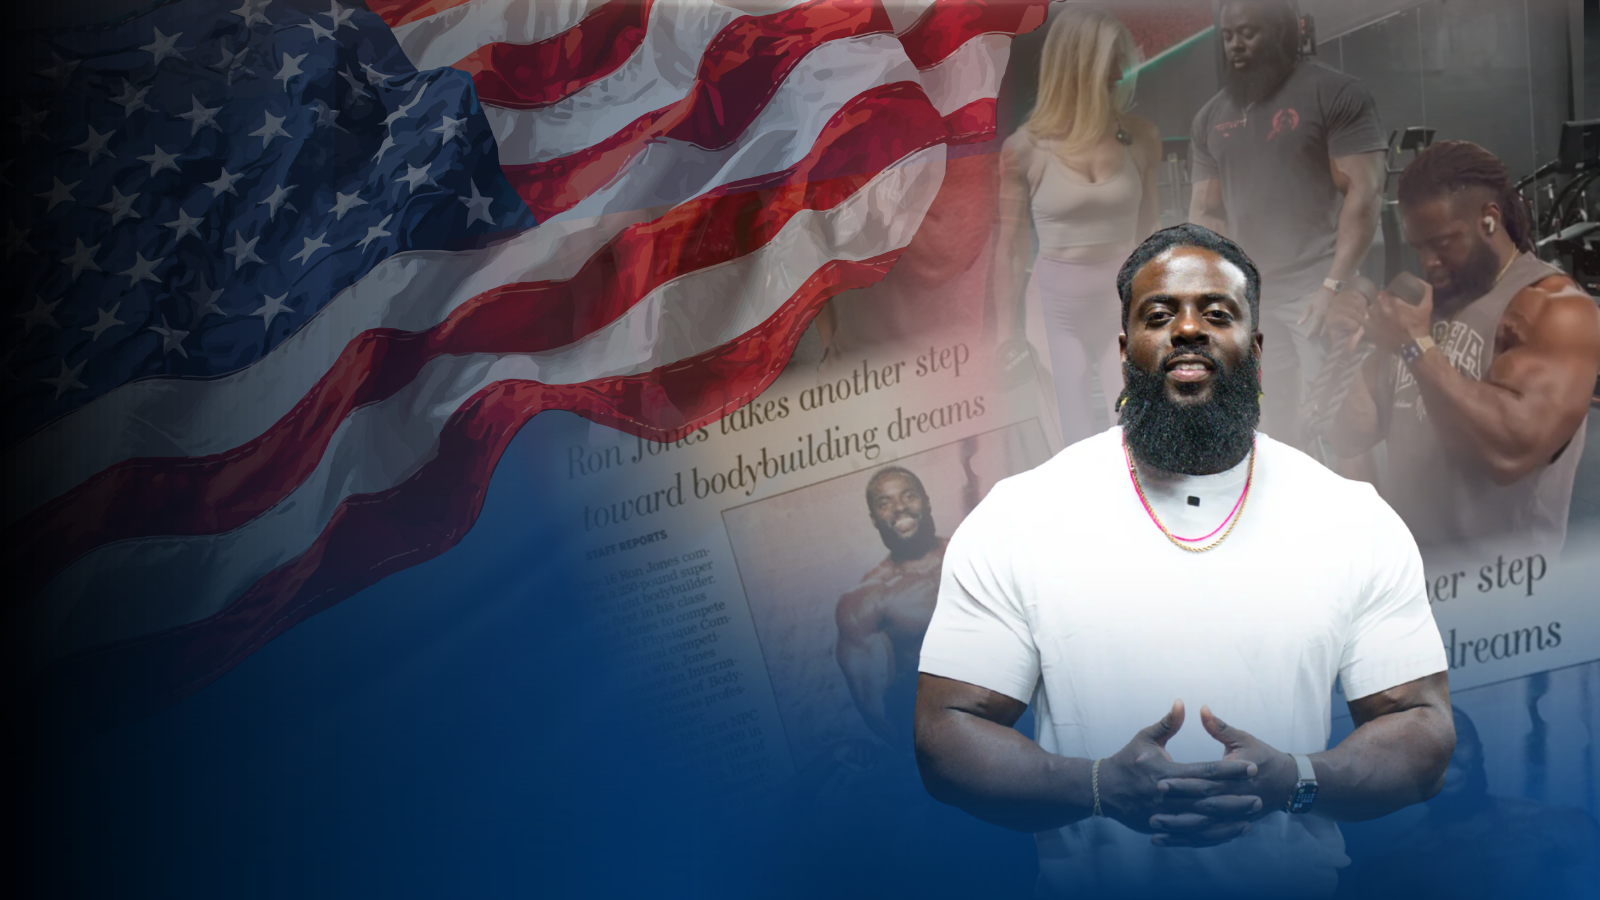
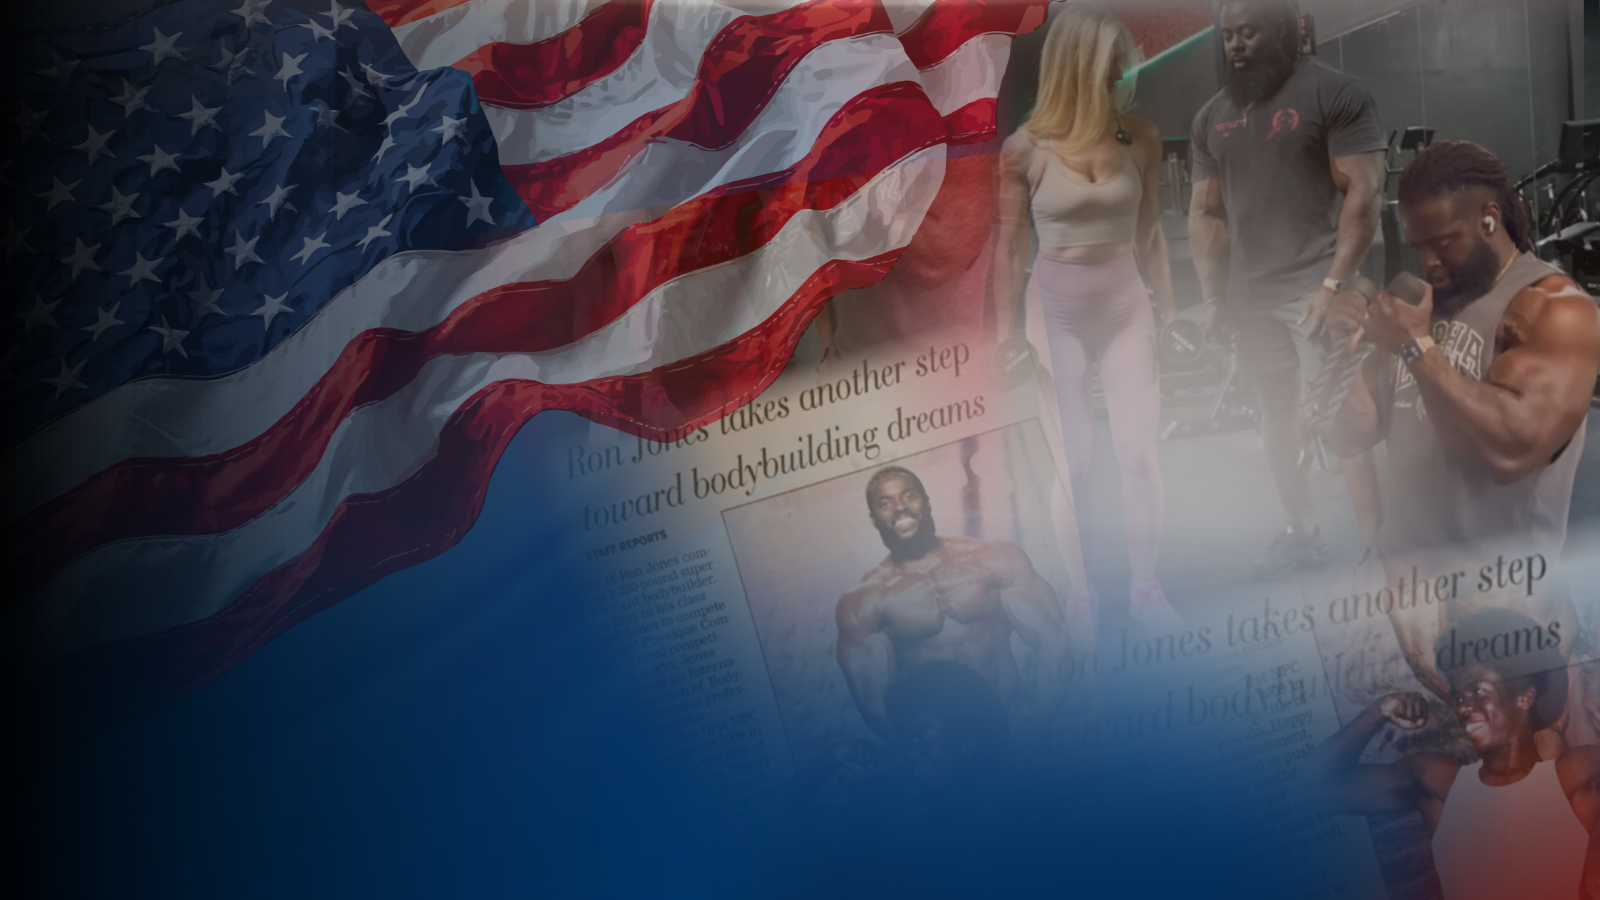
feat(hero): integrate new 1600x900 hero image with responsive desktop backdrop, mobile/iPhone showcase card, and WebP optimization

Changed region(s): [[0.5625, 0.1244, 1.0, 1.0]]

diff --git a/src/pages/Home.tsx b/src/pages/Home.tsx
@@ -41,28 +41,32 @@ export default function Home() {
           aria-hidden="true"
         />
 
-        {/* Desktop Widescreen Hero Image with Big Ron Jones & American Flag (>= 1024px) */}
-        <div className="hidden lg:block absolute inset-0 h-full w-full pointer-events-none select-none overflow-hidden z-10 opacity-70 mix-blend-screen">
-          <img
-            src="/brand/hero-desktop.png"
-            alt="BigRonJones®"
-            className="h-full w-full object-cover object-[80%_center] xl:object-[78%_center] select-none"
-            style={{ imageRendering: "-webkit-optimize-contrast" }}
-            fetchPriority="high"
-          />
+        {/* Desktop Widescreen Hero Image with Big Ron Jones, American Flag & Gym Action (>= 1024px) */}
+        <div className="hidden lg:block absolute inset-0 h-full w-full pointer-events-none select-none overflow-hidden z-10">
+          <picture>
+            <source type="image/webp" srcSet="/brand/hero.webp" />
+            <img
+              src="/brand/hero.png"
+              alt="Back to Basics with BigRonJones®"
+              className="h-full w-full object-cover object-[82%_center] xl:object-[80%_center] select-none opacity-90"
+              style={{ imageRendering: "-webkit-optimize-contrast" }}
+              fetchPriority="high"
+              decoding="async"
+            />
+          </picture>
           {/* Feathered scrim over left text column to ensure 100% crisp text readability */}
           <div
             className="absolute inset-y-0 left-0 w-full lg:w-[62%] xl:w-[56%] pointer-events-none"
             style={{
               background:
-                "linear-gradient(to right, #070A10 0%, #070A10 35%, rgba(7, 10, 16, 0.94) 52%, rgba(7, 10, 16, 0.72) 72%, rgba(7, 10, 16, 0.25) 90%, transparent 100%)",
+                "linear-gradient(to right, #070A10 0%, #070A10 32%, rgba(7, 10, 16, 0.95) 48%, rgba(7, 10, 16, 0.7) 68%, rgba(7, 10, 16, 0.2) 88%, transparent 100%)",
             }}
           />
           {/* Soft bottom vignette to melt into next section */}
           <div
             className="absolute bottom-0 inset-x-0 h-28 pointer-events-none"
             style={{
-              background: "linear-gradient(to top, #070A10 0%, rgba(7, 10, 16, 0.75) 40%, transparent 100%)",
+              background: "linear-gradient(to top, #070A10 0%, rgba(7, 10, 16, 0.8) 45%, transparent 100%)",
             }}
           />
           {/* Subtle top blend for navbar clearance */}
@@ -74,18 +78,22 @@ export default function Home() {
           />
         </div>
 
-        {/* Mobile & Tablet Hero Visual Layer (< 1024px) */}
-        <div className="block lg:hidden absolute inset-0 h-full w-full pointer-events-none select-none overflow-hidden z-10 opacity-25">
-          <img
-            src="/brand/hero-mobile.png"
-            alt="BigRonJones®"
-            className="h-full w-full object-cover object-top select-none"
-          />
-          <div className="absolute inset-0 bg-gradient-to-b from-[#070A10]/80 via-[#070A10]/95 to-[#070A10]" />
+        {/* Mobile & Tablet Hero Visual Background Atmosphere (< 1024px) */}
+        <div className="block lg:hidden absolute inset-0 h-full w-full pointer-events-none select-none overflow-hidden z-10 opacity-30">
+          <picture>
+            <source type="image/webp" srcSet="/brand/hero.webp" />
+            <img
+              src="/brand/hero.png"
+              alt="BigRonJones®"
+              className="h-full w-full object-cover object-[75%_center] select-none"
+              loading="eager"
+            />
+          </picture>
+          <div className="absolute inset-0 bg-gradient-to-b from-[#070A10]/75 via-[#070A10]/90 to-[#070A10]" />
         </div>
 
         <div className="relative z-20 mx-auto max-w-7xl px-4 sm:px-6 lg:px-8">
-          <div className="max-w-3xl lg:max-w-2xl text-center lg:text-left">
+          <div className="max-w-3xl lg:max-w-xl xl:max-w-2xl text-center lg:text-left">
             {/* Eyebrow badge with signature crimson accent */}
             <div className="inline-flex items-center gap-2 mb-6">
               <span className="inline-block w-8 h-[2px] bg-[#B31942]" />
@@ -95,7 +103,7 @@ export default function Home() {
             </div>
 
             {/* Wordmark / H1 */}
-            <h1 className="font-heading text-5xl sm:text-6xl md:text-7xl lg:text-8xl tracking-tight text-white uppercase leading-[0.92]">
+            <h1 className="font-heading text-4xl xs:text-5xl sm:text-6xl md:text-7xl lg:text-8xl tracking-tight text-white uppercase leading-[0.94]">
               Back to Basics <br />
               <span className="text-[#38bdf8] drop-shadow-sm">
                 with <BrandName variant="upper" />
@@ -113,11 +121,11 @@ export default function Home() {
             </p>
 
             {/* Action Buttons */}
-            <div className="mt-8 flex flex-col sm:flex-row items-center justify-center lg:justify-start gap-4">
+            <div className="mt-8 flex flex-col sm:flex-row items-center justify-center lg:justify-start gap-3.5">
               <Link
                 to="/chest-day/"
                 onClick={() => trackWatchEpisodeClick(1, "Episode 1: Chest Day")}
-                className="w-full sm:w-auto inline-flex items-center justify-center gap-2.5 rounded-lg bg-[#B31942] px-8 py-4 text-base sm:text-lg font-bold text-white shadow-xl shadow-red-900/35 transition-all hover:bg-[#8e1032] hover:shadow-2xl active:scale-[0.99] focus-visible:ring-2 focus-visible:ring-offset-2 focus-visible:ring-[#B31942]"
+                className="w-full sm:w-auto min-h-[48px] inline-flex items-center justify-center gap-2.5 rounded-lg bg-[#B31942] px-8 py-3.5 text-base sm:text-lg font-bold text-white shadow-xl shadow-red-900/35 transition-all hover:bg-[#8e1032] hover:shadow-2xl active:scale-[0.99] focus-visible:ring-2 focus-visible:ring-offset-2 focus-visible:ring-[#B31942]"
               >
                 <Play className="h-5 w-5 fill-current text-white" aria-hidden="true" />
                 <span>Watch Episode 1</span>
@@ -128,7 +136,7 @@ export default function Home() {
                 href="https://bigronjones.com/assessment"
                 target="_blank"
                 rel="noopener noreferrer"
-                className="w-full sm:w-auto inline-flex items-center justify-center gap-2 rounded-lg border border-slate-700 bg-white/10 backdrop-blur-md px-7 py-3.5 text-base font-bold text-white transition-all hover:bg-white/15 hover:border-slate-500"
+                className="w-full sm:w-auto min-h-[48px] inline-flex items-center justify-center gap-2 rounded-lg border border-slate-700 bg-white/10 backdrop-blur-md px-6 py-3.5 text-base font-bold text-white transition-all hover:bg-white/15 hover:border-slate-500"
               >
                 <span className="h-2 w-2 rounded-full bg-[#B31942] animate-pulse" />
                 <span>Take Free Assessment →</span>
@@ -136,14 +144,14 @@ export default function Home() {
 
               <a
                 href="#join"
-                className="w-full sm:w-auto inline-flex items-center justify-center rounded-lg border border-slate-700 bg-slate-900/70 px-6 py-3.5 text-sm font-bold text-slate-300 hover:text-white hover:border-slate-500 transition-colors"
+                className="w-full sm:w-auto min-h-[48px] inline-flex items-center justify-center rounded-lg border border-slate-700 bg-slate-900/70 px-6 py-3.5 text-sm font-bold text-slate-300 hover:text-white hover:border-slate-500 transition-colors"
               >
                 Join the Email List
               </a>
             </div>
 
             {/* Trust Subtext */}
-            <div className="mt-8 flex flex-wrap items-center justify-center lg:justify-start gap-3 text-xs font-mono font-medium text-slate-400">
+            <div className="mt-7 flex flex-wrap items-center justify-center lg:justify-start gap-3 text-xs font-mono font-medium text-slate-400">
               <span className="inline-flex items-center gap-1.5 text-slate-300">
                 <ShieldCheck className="h-4 w-4 text-[#38bdf8]" />
                 20+ Years Coaching
@@ -152,6 +160,44 @@ export default function Home() {
               <span>4 Free Complete Sessions</span>
               <span>•</span>
               <span>No Subscription Required</span>
+            </div>
+
+            {/* Mobile & iPhone Dedicated Hero Visual Card (< 1024px) */}
+            <div className="lg:hidden mt-8 w-full max-w-lg mx-auto sm:max-w-xl">
+              <Link
+                to="/chest-day/"
+                onClick={() => trackWatchEpisodeClick(1, "Hero Mobile Card - Episode 1")}
+                className="group relative block aspect-[16/9] w-full overflow-hidden rounded-2xl border border-slate-800 bg-[#0c1322] shadow-2xl shadow-blue-950/60 transition-transform active:scale-[0.99] focus-visible:ring-2 focus-visible:ring-[#38bdf8]"
+                aria-label="Watch Back to Basics Series Episode 1"
+              >
+                <picture>
+                  <source type="image/webp" srcSet="/brand/hero.webp" />
+                  <img
+                    src="/brand/hero.png"
+                    alt="Back to Basics with BigRonJones®"
+                    className="h-full w-full object-cover object-center select-none transition-transform duration-500 group-hover:scale-105"
+                    loading="eager"
+                    fetchPriority="high"
+                    decoding="async"
+                  />
+                </picture>
+
+                {/* Center Play Button Overlay */}
+                <div className="absolute inset-0 flex items-center justify-center bg-black/25 group-hover:bg-black/15 transition-colors">
+                  <div className="flex h-13 w-13 sm:h-15 sm:w-15 items-center justify-center rounded-full bg-[#0A3161]/90 text-white shadow-2xl border-2 border-white/30 backdrop-blur-sm group-hover:scale-110 transition-transform">
+                    <Play className="h-6 w-6 sm:h-7 sm:w-7 fill-current text-white ml-0.5" aria-hidden="true" />
+                  </div>
+                </div>
+
+                {/* Floating Bottom Glass Banner */}
+                <div className="absolute bottom-2.5 inset-x-2.5 flex items-center justify-between text-[10px] sm:text-[11px] font-mono font-bold uppercase tracking-wider text-white bg-[#070A10]/85 backdrop-blur-md px-3 py-1.5 rounded-lg border border-white/10 shadow-lg">
+                  <span className="flex items-center gap-1.5">
+                    <span className="h-2 w-2 rounded-full bg-[#B31942] animate-pulse" />
+                    <span>START WATCHING FREE</span>
+                  </span>
+                  <span className="text-[#38bdf8]">Episode 1: Chest Day →</span>
+                </div>
+              </Link>
             </div>
           </div>
         </div>
